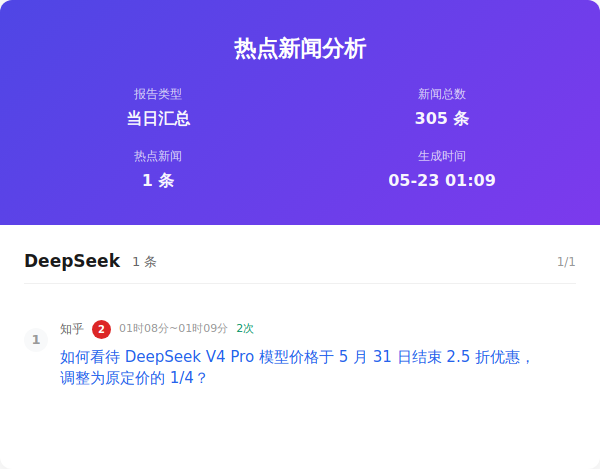
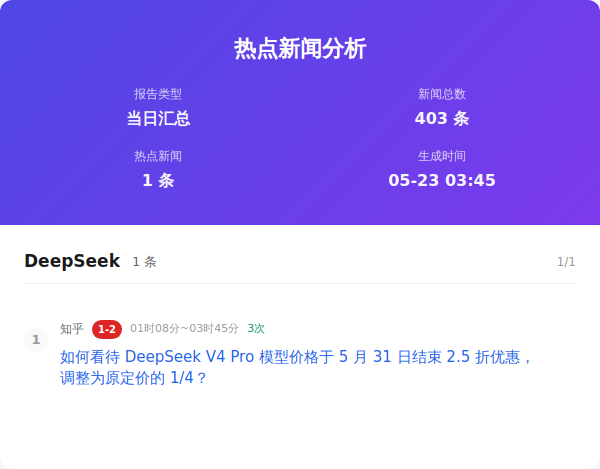
Auto update by GitHub Actions at Sat May 23 03:45:49 CST 2026

Changed region(s): [[0.15, 0.6866, 0.45, 0.7463], [0.75, 0.3582, 0.84, 0.4179], [0.69, 0.2388, 0.75, 0.2687]]

diff --git a/output/2026年05月23日/html/当日汇总.html b/output/2026年05月23日/html/当日汇总.html
@@ -357,7 +357,7 @@
                     </div>
                     <div class="info-item">
                         <span class="info-label">新闻总数</span>
-                        <span class="info-value">305 条</span>
+                        <span class="info-value">403 条</span>
                     </div>
                     <div class="info-item">
                         <span class="info-label">热点新闻</span>
@@ -365,7 +365,7 @@
                     </div>
                     <div class="info-item">
                         <span class="info-label">生成时间</span>
-                        <span class="info-value">05-23 01:09</span>
+                        <span class="info-value">05-23 03:45</span>
                     </div>
                 </div>
             </div>
@@ -383,7 +383,7 @@
                         <div class="news-number">1</div>
                         <div class="news-content">
                             <div class="news-header">
-                                <span class="source-name">知乎</span><span class="rank-num top">2</span><span class="time-info">01时08分~01时09分</span><span class="count-info">2次</span>
+                                <span class="source-name">知乎</span><span class="rank-num top">1-2</span><span class="time-info">01时08分~03时45分</span><span class="count-info">3次</span>
                             </div>
                             <div class="news-title"><a href="https://www.zhihu.com/question/2041260640740927118" target="_blank" class="news-link">如何看待 DeepSeek V4 Pro 模型价格于 5 月 31 日结束 2.5 折优惠，调整为原定价的 1/4？</a>
                             </div>